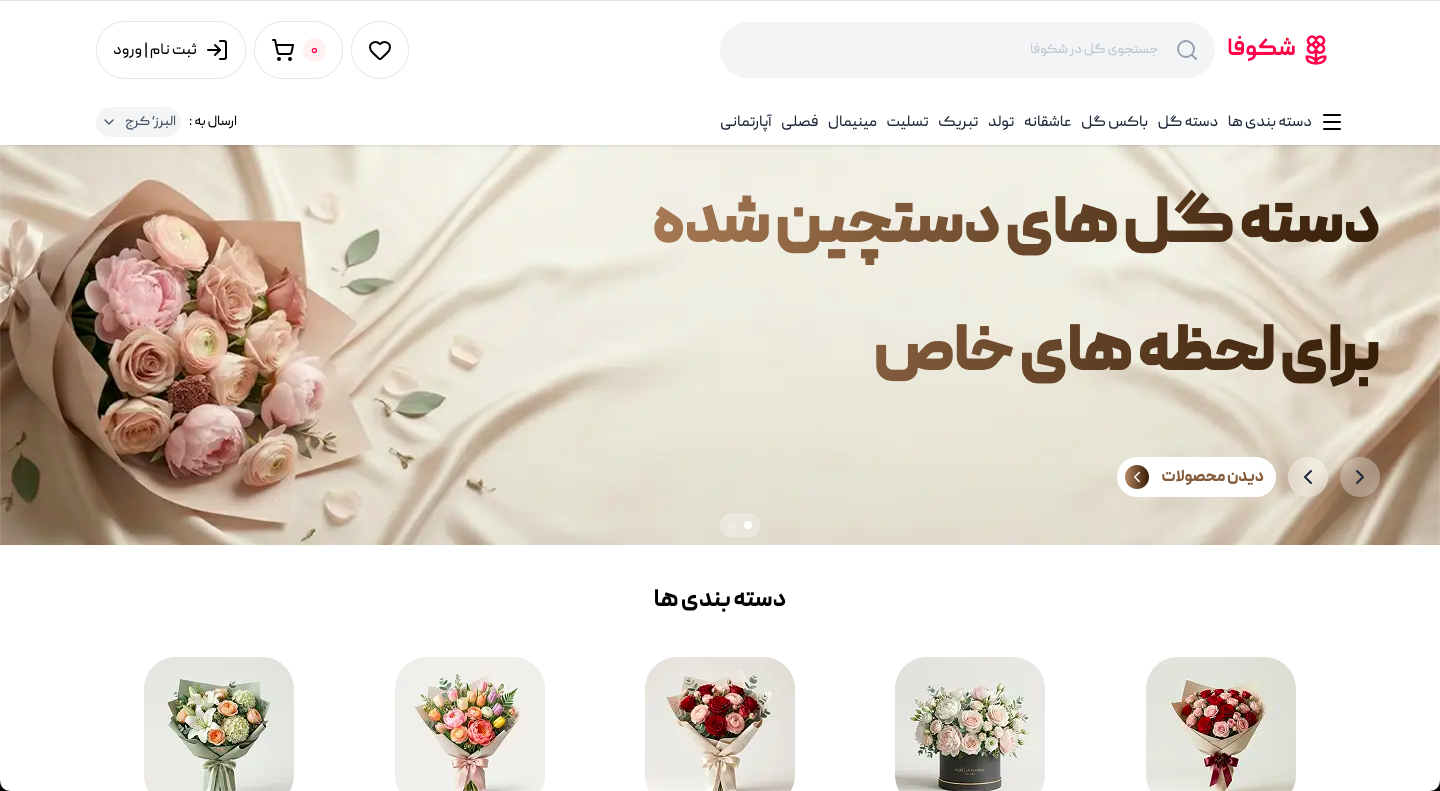
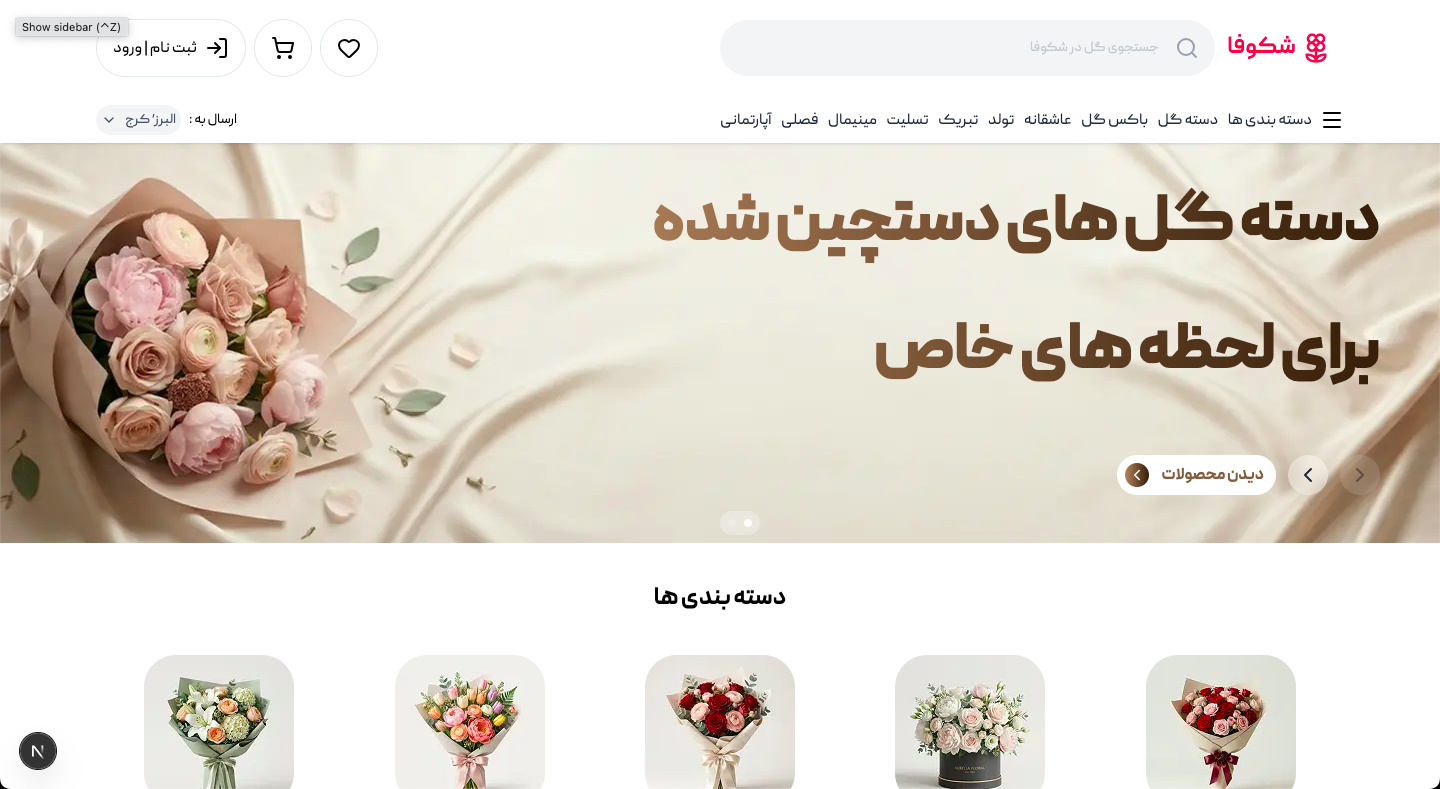
update header

diff --git a/app/_components/layout/header/topHeader.tsx b/app/_components/layout/header/topHeader.tsx
@@ -65,21 +65,28 @@ export default function TopHeader({ user }: TopHeaderProps) {
 
       {/* left  */}
       <div className="lg:flex hidden items-center gap-x-2 justify-end">
-        <button
-          type="button"
+        {/* wish list  */}
+        <Link
+          href={user ? "/whishlist" : "/login"}
           className="border border-gray-200 p-4 rounded-full cursor-pointer hover:border-black transition-color duration-300"
         >
           <Heart />
-        </button>
-        <button
-          type="button"
+        </Link>
+
+        {/* cart */}
+        <Link
+          href={user ? "/cart" : "/login"}
           className="border border-gray-200 p-4 rounded-full cursor-pointer flex items-center gap-x-2 hover:border-black transition-color duration-300"
         >
-          <div className="badge bg-rose-50 rounded-full text-rose-500 px-2">
-            {cartQuantity}
-          </div>
+          {user && (
+            <div className="badge bg-rose-50 rounded-full text-rose-500 px-2">
+              {cartQuantity}
+            </div>
+          )}
           <ShoppingCart />
-        </button>
+        </Link>
+
+        {/* login  */}
         {user ? (
           <div className="relative">
             <button
